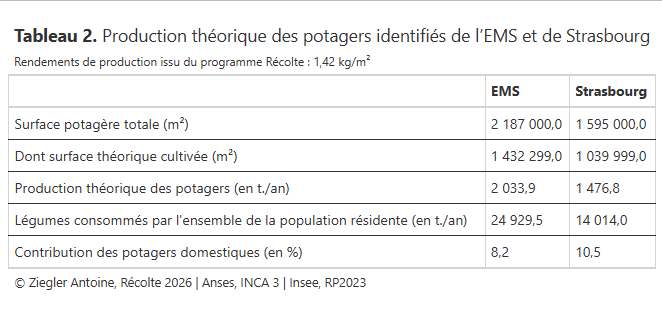
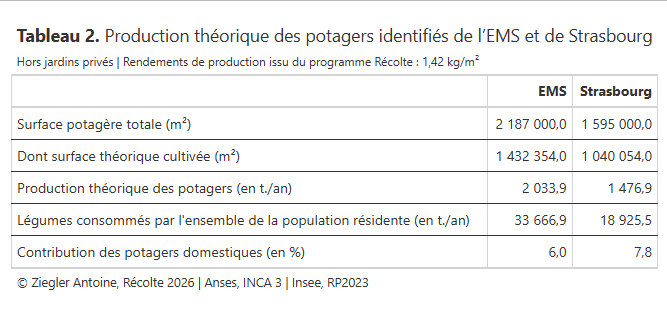
fond clair Positron (OpenFreeMap) à la place de CartoDB + textes limites projection
- CartoDB exige désormais une clé API : remplacé par le style Positron
  servi par OpenFreeMap (gratuit, sans clé), affiché via MapLibre
- maxZoom fixé sur la carte (nécessaire au regroupement des pièges Barber)
- correctif : animateCounter ignore les compteurs absents de la page
- sidebar Projection : tableaux et annexes remplacés par des emplacements
  à compléter
- réécriture des textes "Limites et précautions d'interprétation"
- mise à jour des images tableau_1/2/3

diff --git a/index.html b/index.html
@@ -9,9 +9,13 @@
   <link rel="stylesheet" href="https://unpkg.com/leaflet/dist/leaflet.css" />
   <link rel="stylesheet" href="https://unpkg.com/leaflet.markercluster/dist/MarkerCluster.css" />
   <link rel="stylesheet" href="https://unpkg.com/leaflet.markercluster/dist/MarkerCluster.Default.css" />
+  <link rel="stylesheet" href="https://unpkg.com/maplibre-gl@4.7.1/dist/maplibre-gl.css" />
   <link rel="stylesheet" href="styles.css" />
   <script src="https://unpkg.com/leaflet/dist/leaflet.js"></script>
   <script src="https://unpkg.com/leaflet.markercluster/dist/leaflet.markercluster.js"></script>
+  <!-- MapLibre + son plugin Leaflet : affichent le fond clair "Positron" (tuiles vectorielles OpenFreeMap) -->
+  <script src="https://unpkg.com/maplibre-gl@4.7.1/dist/maplibre-gl.js"></script>
+  <script src="https://unpkg.com/@maplibre/maplibre-gl-leaflet@0.0.22/leaflet-maplibre-gl.js"></script>
   <script src="https://cdnjs.cloudflare.com/ajax/libs/xlsx/0.18.5/xlsx.full.min.js"></script>
   <script src="https://cdnjs.cloudflare.com/ajax/libs/jszip/3.10.1/jszip.min.js"></script>
   
@@ -172,9 +176,12 @@
 
     <!-- Sidebar projection -->
     <div id="sidebar-projection" class="hidden" style="display:none;">
-      <img src="data/projection_RECOLTE/tableau_1.png" alt="Tableau 1" style="width:100%; cursor:zoom-in;" onclick="ouvrirLightbox(this.src, ['data/projection_RECOLTE/tableau_1.png','data/projection_RECOLTE/tableau_2.png','data/projection_RECOLTE/tableau_3.png'], 0)" />
-      <img src="data/projection_RECOLTE/tableau_2.png" alt="Tableau 2" style="width:100%; margin-top:1rem; cursor:zoom-in;" onclick="ouvrirLightbox(this.src, ['data/projection_RECOLTE/tableau_1.png','data/projection_RECOLTE/tableau_2.png','data/projection_RECOLTE/tableau_3.png'], 1)" />
-      <img src="data/projection_RECOLTE/tableau_3.png" alt="Tableau 3" style="width:100%; margin-top:1rem; cursor:zoom-in;" onclick="ouvrirLightbox(this.src, ['data/projection_RECOLTE/tableau_1.png','data/projection_RECOLTE/tableau_2.png','data/projection_RECOLTE/tableau_3.png'], 2)" />
+      <!-- EMPLACEMENTS À COMPLÉTER : remplacer chaque bloc par l'image du tableau, par ex. :
+           <img src="data/projection_RECOLTE/tableau_1.png" alt="Tableau 1" style="width:100%; cursor:zoom-in;" onclick="ouvrirLightbox(this.src, ['data/projection_RECOLTE/tableau_1.png','data/projection_RECOLTE/tableau_2.png','data/projection_RECOLTE/tableau_3.png'], 0)" />
+           (les anciennes images sont toujours dans data/projection_RECOLTE/) -->
+      <div style="height:140px; display:flex; align-items:center; justify-content:center; border:2px dashed var(--border-color); border-radius:12px; color:var(--text-secondary); font-size:0.9rem; font-style:italic;">Tableau 1</div>
+      <div style="height:140px; margin-top:1rem; display:flex; align-items:center; justify-content:center; border:2px dashed var(--border-color); border-radius:12px; color:var(--text-secondary); font-size:0.9rem; font-style:italic;">Tableau 2</div>
+      <div style="height:140px; margin-top:1rem; display:flex; align-items:center; justify-content:center; border:2px dashed var(--border-color); border-radius:12px; color:var(--text-secondary); font-size:0.9rem; font-style:italic;">Tableau 3</div>
 
       <div style="margin-top:1rem; font-size:0.78rem; color:var(--text-secondary); line-height:1.8;">
         <p style="margin:0;"><em>Scénario 1. Usage productif des espaces urbains</em></p>
@@ -185,16 +192,16 @@
         <h3 style="margin:0 0 1rem 0; font-size:0.95rem; font-weight:600; color:var(--text-primary);">Limites et précautions d'interprétation</h3>
 
         <h4 style="margin:0 0 0.4rem 0; font-size:0.85rem; font-weight:600; color:var(--text-primary);">1. Nature et statut des données</h4>
-        <p style="margin:0 0 1rem 0; font-size:0.82rem; color:var(--text-secondary); line-height:1.6;">Les données présentées sont issues du stage RECOLTE 2026. Les chiffres ici présentés reposent sur une estimation théorique basée sur des hypothèses de mise en culture et doivent être interprétés avec prudence. Toutefois, ces valeurs prospectives ont pour intérêt d'alimenter le débat sur la reterritorialisation alimentaire.</p>
+        <p style="margin:0 0 1rem 0; font-size:0.82rem; color:var(--text-secondary); line-height:1.6;">Les données présentées ont été compilées lors du stage réalisé en 2026 dans le cadre du projet de recherche RECOLTE. Les chiffres reposent sur une estimation théorique basée à la fois sur des hypothèses de surfaces mises en culture, une observation au moyen cours des productions potagères à Strasbourg et des informations statistiques. Ces données doivent être interprétées avec prudence. Toutefois, ces valeurs prospectives ont pour intérêt d'alimenter le débat sur la reterritorialisation alimentaire.</p>
 
         <h4 style="margin:0 0 0.4rem 0; font-size:0.85rem; font-weight:600; color:var(--text-primary);">2. Représentativité du rendement</h4>
-        <p style="margin:0 0 1rem 0; font-size:0.82rem; color:var(--text-secondary); line-height:1.6;">Le rendement de production de 1,42 kg/m², obtenu via les données du programme de recherche Récolte (à la base de nos calculs), est probablement inférieur au rendement réel. Les données du programme Récolte sont encore fragiles : elles représentent un échantillon détaillé de 10 jardins et ne sont donc pas représentatives des pratiques et des rendements observés dans les jardins familiaux.</p>
+        <p style="margin:0 0 1rem 0; font-size:0.82rem; color:var(--text-secondary); line-height:1.6;">Le rendement de production de 1,42 kg/m², obtenu via les données du programme de recherche Récolte (à la base de nos calculs), est probablement inférieur au rendement réel (très variable d’un jardinier à l’autre). Les données du programme Récolte sont encore fragiles : elles proviennent d’un échantillon détaillé de 10 jardins mais ne sont pas représentatives des pratiques et des rendements observés dans les jardins familiaux.</p>
 
         <h4 style="margin:0 0 0.4rem 0; font-size:0.85rem; font-weight:600; color:var(--text-primary);">3. Incertitude sur les jardins privés et extrapolation prudente</h4>
-        <p style="margin:0 0 0.75rem 0; font-size:0.82rem; color:var(--text-secondary); line-height:1.6;">Si l'apport des jardins publics de l'Eurométropole de Strasbourg (EMS) est connu, celui des jardins privés reste inconnu, faute de données sur leur nombre réel. Toutefois, la superficie totale de ces jardins privés est désormais estimée, depuis le stage Récolte 2026 (Ziegler Antoine), grâce à la base de données OCS GE et à la photo-interprétation.</p>
-        <p style="margin:0 0 0.75rem 0; font-size:0.82rem; color:var(--text-secondary); line-height:1.6;">En posant l'hypothèse qu'une partie de cette superficie soit effectivement cultivée, on peut estimer un apport supplémentaire non négligeable :</p>
+        <p style="margin:0 0 0.75rem 0; font-size:0.82rem; color:var(--text-secondary); line-height:1.6;">Si les superficies des jardins publics de l'Eurométropole de Strasbourg (EMS) sont connues, celles des jardins privés restent inconnues, faute de données (nombre réel, surfaces et productivité). Toutefois, la superficie totale de ces jardins privés est désormais estimée, depuis le stage 2026 (Ziegler Antoine), financé par la ZAEU, grâce à la base de données OCS GE et à la photo-interprétation.</p>
+        <p style="margin:0 0 0.75rem 0; font-size:0.82rem; color:var(--text-secondary); line-height:1.6;">En posant l'hypothèse qu'une partie de cette superficie d’espaces privés non artificialisés soit effectivement cultivée, on peut estimer un apport supplémentaire non négligeable :</p>
         <ul style="margin:0; padding-left:1.25rem; font-size:0.82rem; color:var(--text-secondary); line-height:1.8;">
-          <li><strong>À l'échelle de l'EMS :</strong> 10 % des jardins particuliers privés cultivés représenteraient 1 604,6 tonnes, soit 6,4 % de l'apport en légumes consommés par la population résidente de l'EMS.</li>
+          <li><strong>À l'échelle de l'EMS :</strong> si seulement 10 % de la surface des jardins particuliers privés était cultivée, cela pourrait représenter 1 604,6 tonnes, soit 6,4 % de l'apport en légumes consommés par la population résidente de l'EMS. D’autres scénarios sont envisageables.</li>
           <li><strong>À l'échelle de Strasbourg :</strong> 10 % des jardins particuliers privés cultivés représenteraient 322,3 tonnes, soit 2,3 % de l'apport en légumes consommés par la population résidente de Strasbourg.</li>
         </ul>
 
@@ -202,13 +209,15 @@
         <p style="margin:0 0 1rem 0; font-size:0.82rem; color:var(--text-secondary); line-height:1.6;">Les données avancées concernant ces espaces potentiellement cultivables sont ici brutes. Un travail de diagnostic de ces espaces reste nécessaire, portant notamment sur : la pollution des sols, la pollution atmosphérique, l'accessibilité, la concurrence écologique, les aménités, le coût de mobilisation, ainsi que les conflits d'usage autour de ces espaces.</p>
 
         <h4 style="margin:0 0 0.4rem 0; font-size:0.85rem; font-weight:600; color:var(--text-primary);">5. Saisonnalité des rendements et pertes alimentaires potentielles</h4>
-        <p style="margin:0; font-size:0.82rem; color:var(--text-secondary); line-height:1.6;">Pour l'instant, les rendements estimés par le programme Récolte ne tiennent pas compte de la saisonnalité de la production, qui varie d'une saison à l'autre au sein des potagers domestiques. Par ailleurs, ces estimations ne prennent pas en compte les pertes potentielles entre la récolte et la consommation effective (pertes au jardin, lors du stockage, du transport ou de la transformation), qui viendraient réduire d'autant l'apport réellement disponible pour la population.</p>
+        <p style="margin:0; font-size:0.82rem; color:var(--text-secondary); line-height:1.6;">Pour la présente cartographie, les rendements estimés par le programme Récolte sont rapportés à un total annuel. Par ailleurs, ces estimations ne prennent pas en compte les pertes potentielles entre la récolte et la consommation effective (pertes au jardin, lors du stockage, du transport ou de la transformation), qui viendraient réduire d'autant l'apport réellement disponible pour la population.</p>
       </div>
 
       <div style="margin-top:1.5rem;">
         <h3 style="margin:0 0 0.75rem 0; font-size:0.9rem; font-weight:600; color:var(--text-primary);">Annexes</h3>
-        <img src="data/projection_RECOLTE/annexe_1.png" alt="Annexe 1" style="width:100%; cursor:zoom-in;" onclick="ouvrirLightbox(this.src, ['data/projection_RECOLTE/annexe_1.png','data/projection_RECOLTE/annexe_3.png'], 0)" />
-        <img src="data/projection_RECOLTE/annexe_3.png" alt="Annexe 3" style="width:100%; margin-top:1rem; cursor:zoom-in;" onclick="ouvrirLightbox(this.src, ['data/projection_RECOLTE/annexe_1.png','data/projection_RECOLTE/annexe_3.png'], 1)" />
+        <!-- EMPLACEMENTS À COMPLÉTER : remplacer chaque bloc par l'image de l'annexe, par ex. :
+             <img src="data/projection_RECOLTE/annexe_1.png" alt="Annexe 1" style="width:100%; cursor:zoom-in;" onclick="ouvrirLightbox(this.src, ['data/projection_RECOLTE/annexe_1.png','data/projection_RECOLTE/annexe_3.png'], 0)" /> -->
+        <div style="height:140px; display:flex; align-items:center; justify-content:center; border:2px dashed var(--border-color); border-radius:12px; color:var(--text-secondary); font-size:0.9rem; font-style:italic;">Annexe 1</div>
+        <div style="height:140px; margin-top:1rem; display:flex; align-items:center; justify-content:center; border:2px dashed var(--border-color); border-radius:12px; color:var(--text-secondary); font-size:0.9rem; font-style:italic;">Annexe 3</div>
       </div>
     </div>
 

diff --git a/carte-initialisation.js b/carte-initialisation.js
@@ -4,6 +4,8 @@
 const map = L.map('map', {
   zoomControl: false,
   attributionControl: false,
+  maxZoom: 22, // indispensable pour le regroupement des pièges Barber (markercluster)
+               // depuis que le fond par défaut (Positron/MapLibre) ne fournit pas de zoom max
   preferCanvas: true, // OPTIMISATION: Utiliser Canvas pour de meilleures performances
   zoomAnimation: true,
   fadeAnimation: true,
@@ -29,10 +31,13 @@ const satellite = L.tileLayer('https://server.arcgisonline.com/ArcGIS/rest/servi
   updateWhenIdle: false
 });
 
-const cartoDB = L.tileLayer('https://{s}.basemaps.cartocdn.com/light_all/{z}/{x}/{y}{r}.png', { 
-  maxZoom: 22, 
-  attribution: '© CartoDB | <a href="https://leafletjs.com">Leaflet</a>',
-  updateWhenIdle: false
+// Fond clair "Positron" (même style que l'ancien fond CartoDB), servi gratuitement
+// et sans clé API par OpenFreeMap. Ce sont des tuiles vectorielles : elles sont
+// dessinées par MapLibre (chargé dans index.html) et restent nettes à tous les zooms.
+// Remplace CartoDB qui exige désormais une clé API (carto.com/basemaps/apikey).
+const fondClair = L.maplibreGL({
+  style: 'https://tiles.openfreemap.org/styles/positron',
+  attribution: '© <a href="https://openfreemap.org">OpenFreeMap</a> © OpenMapTiles © OpenStreetMap | <a href="https://leafletjs.com">Leaflet</a>'
 }).addTo(map);
 
 // Couches de données géographiques
@@ -478,7 +483,7 @@ function mettreAjourCouches() {
   const fondsCarte = {
     "🗺 OpenStreetMap": osm,
     "🛰 Satellite": satellite,
-    "🗺 CartoDB": cartoDB
+    "🗺 Fond clair": fondClair
   };
 
   controleCouches = L.control.layers(fondsCarte, null, {

diff --git a/utils.js b/utils.js
@@ -25,6 +25,7 @@ function updateLoadingProgress(processed, total, elapsed) {
 
 // OPTIMISATION: Animation des compteurs avec requestAnimationFrame
 function animateCounter(element, start, end, duration = 1000) {
+  if (!element) return; // compteur absent de la page (ex. "familyGardens", retiré de index.html)
   const startTime = performance.now();
   const range = end - start;
   
